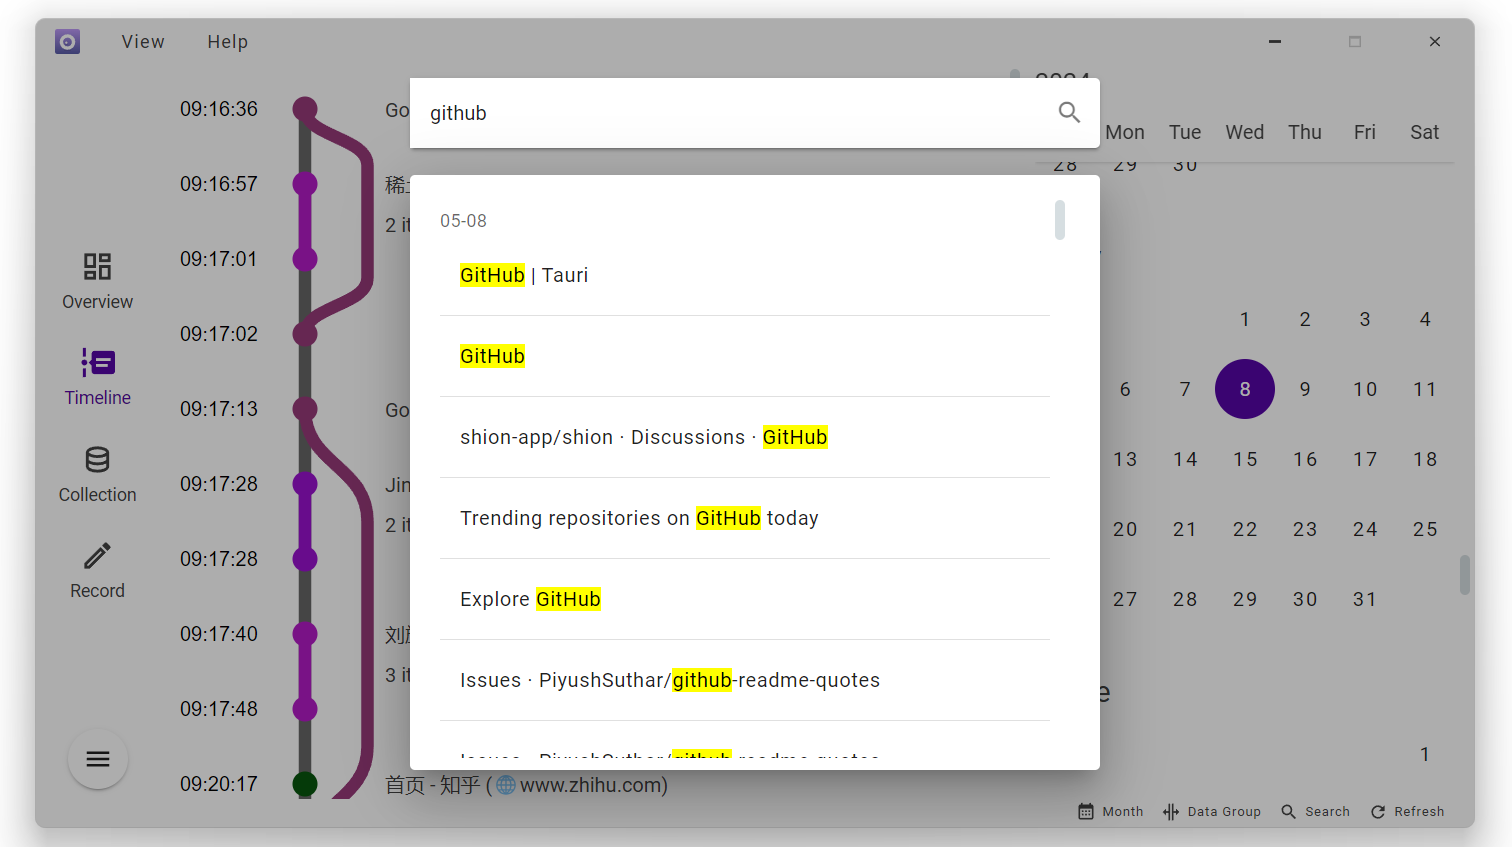
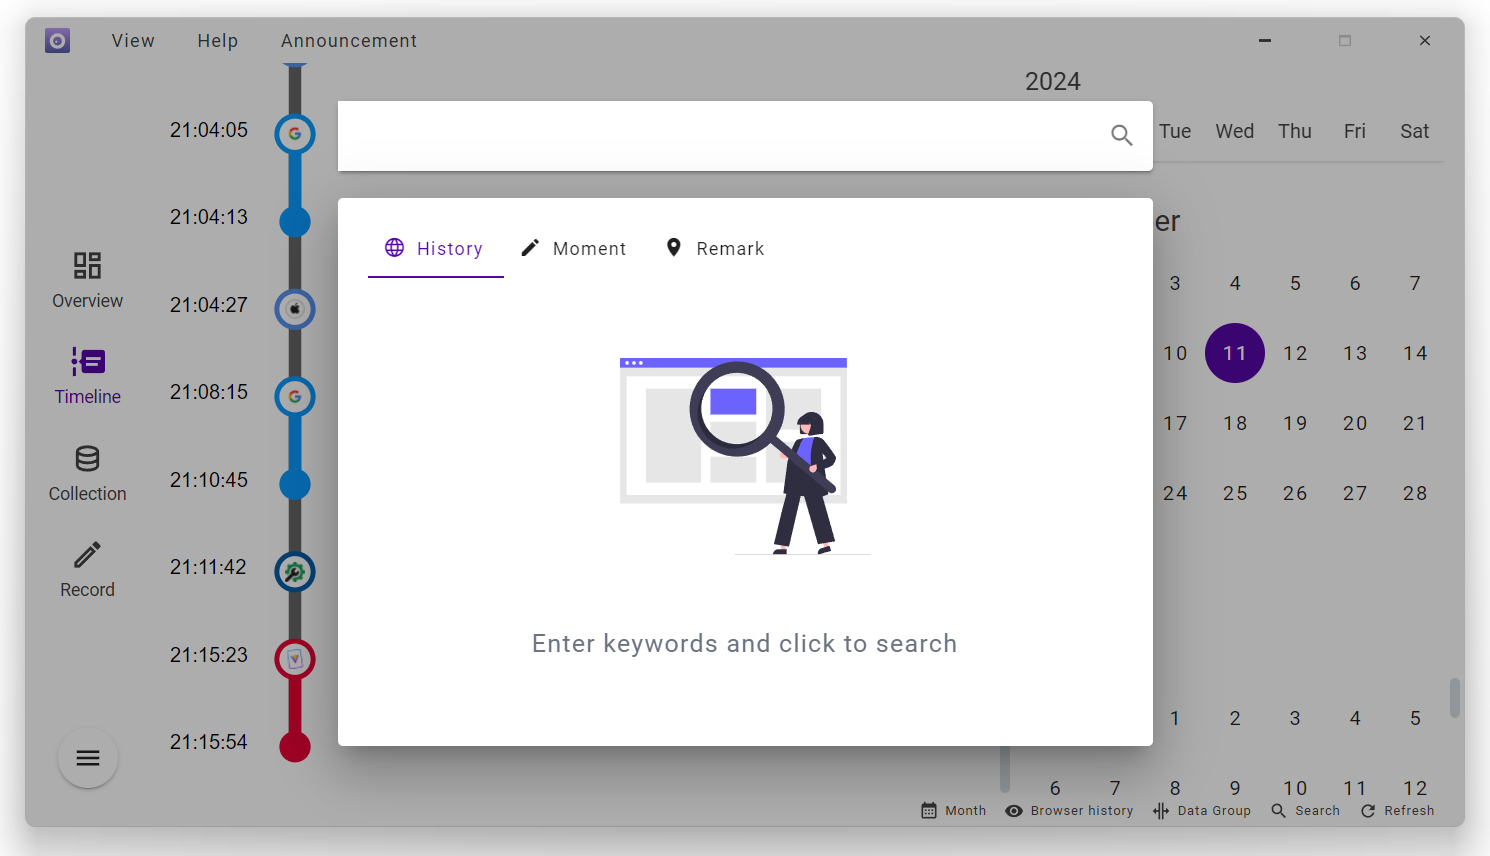
搜索

diff --git a/src/guide/timeline.md b/src/guide/timeline.md
@@ -30,6 +30,6 @@ When data of the same type is gathered together, it will be automatically groupe
 
 ## Search {#search}
 
-Search only for **browser history**
+For searches of **browser history**, **moment**, and **remark**, you can also jump to the corresponding time by clicking on the corresponding search result.
 
 ![](https://cdn.jsdelivr.net/gh/shion-app/docs/src/public/assets/en/timeline/search.png)

diff --git a/src/zh/guide/timeline.md b/src/zh/guide/timeline.md
@@ -33,7 +33,7 @@
 
 ## 搜索 {#search}
 
-仅针对**浏览器历史记录**的搜索
+针对**浏览器历史记录**、**瞬间**、**备注**的搜索，通过点击相应的搜索结果，还可以跳转至相应时间
 
 ![](https://cdn.jsdelivr.net/gh/shion-app/docs/src/public/assets/zh/timeline/search.png)
 
